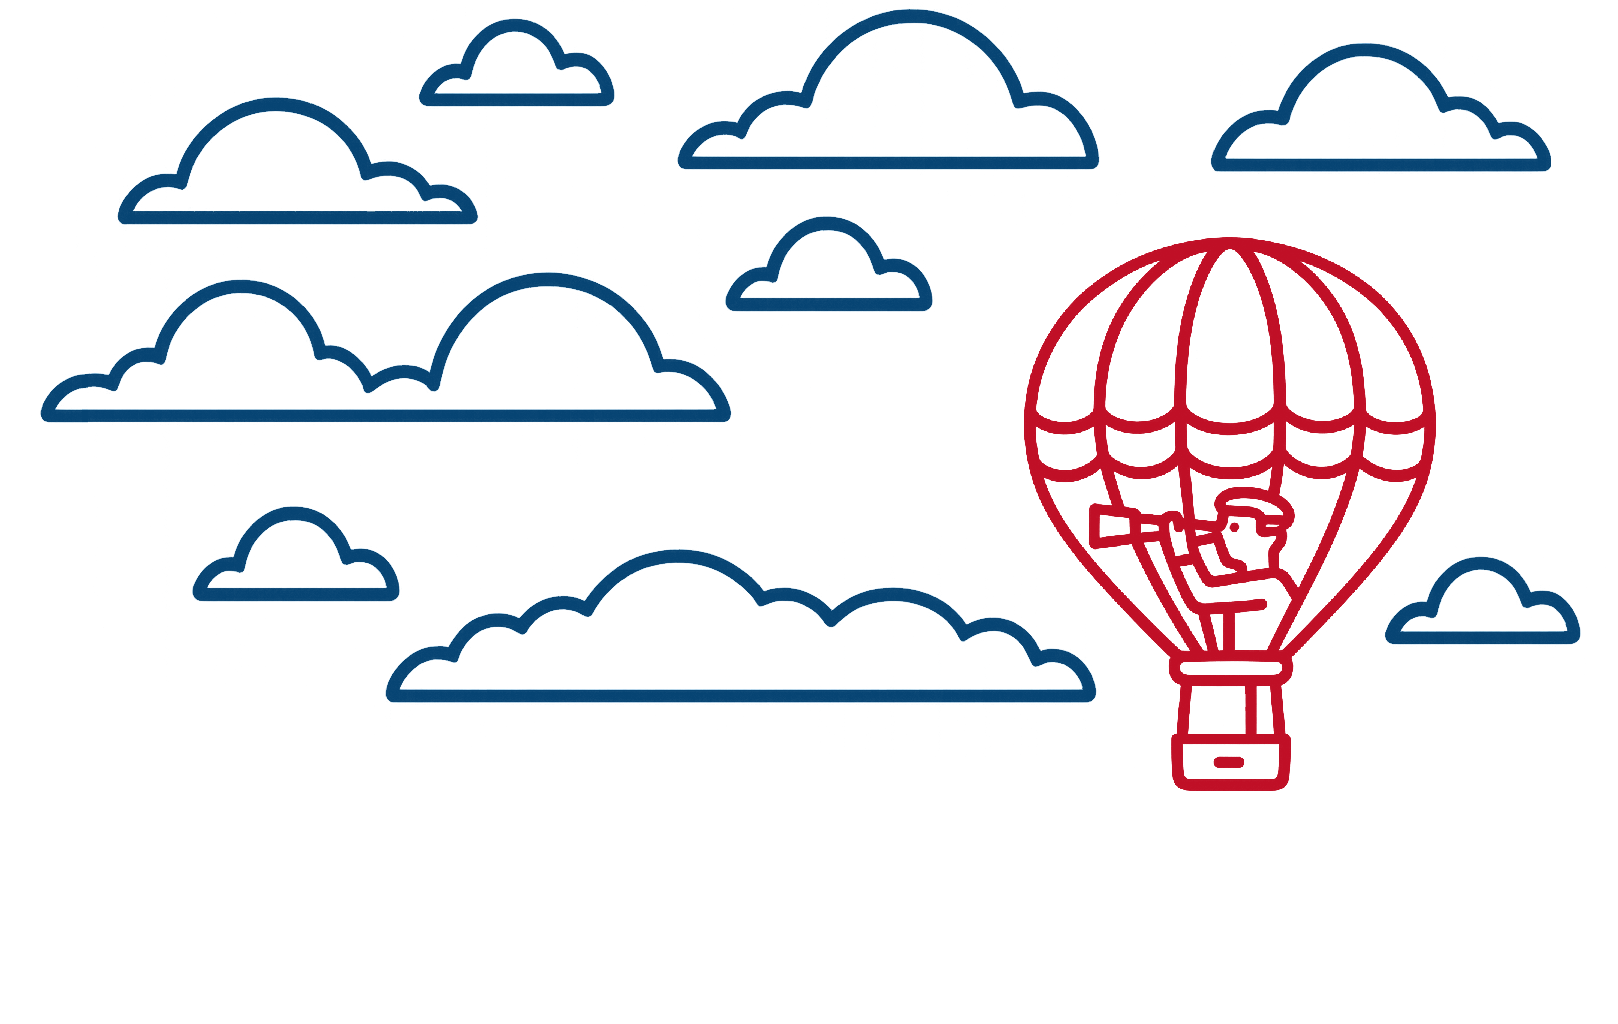
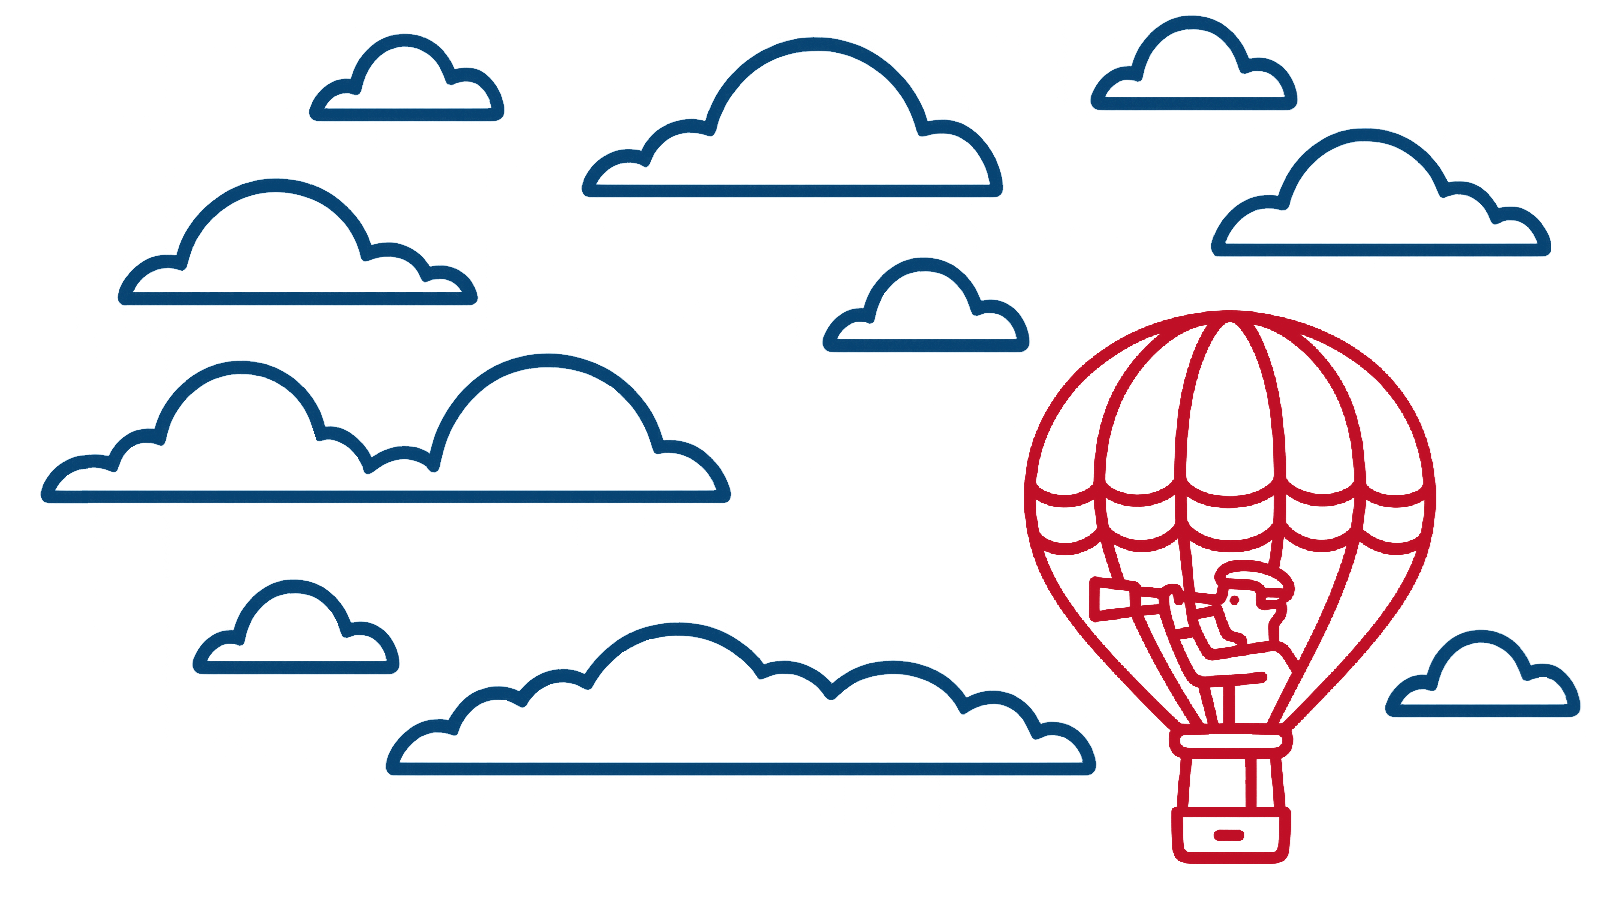
Adding responsive part 3

Changed region(s): [[0.0, 0.0, 0.9889, 0.9466], [0.4017, 0.3359, 0.4326, 0.3664]]

diff --git a/src/index.html b/src/index.html
@@ -98,17 +98,18 @@
 
     <div class="relative z-0 top-0 bg-white">
         <div class="grid">
-            <section class="relative h-[150vh] w-full overflow-hidden">
-                <div class="absolute top-0 left-0 w-full h-full z-0" data-parallax data-speed="0.8">
+            <section class="relative h-[60vh] sm:h-[120vh] w-full overflow-hidden">
+                <div class="absolute top-0 left-0 w-full h-full z-0" data-parallax data-speed="0.7">
                     <h1>Un ciel bleu pour Poitiers</h1>
                 </div>
 
                 <div class="absolute top-65 left-0 w-full h-full z-5" data-parallax data-speed="0.1">
-                    <img src="assets/background_nuages.png" class="w-full" />
+                    <img src="assets/background_nuages.png" alt="Nuages" class="w-full" />
                 </div>
 
-                <div class="absolute top-20 left-0 w-full h-full z-10" data-parallax data-speed="0.6">
-                    <img src="assets/background_mairie.png" class="w-full" />
+                <div class="absolute top-50 sm:top-20 left-0 w-full h-full z-10" data-parallax data-speed="0.6">
+                    <img src="assets/background_mairie.png" alt="Mairie" class="w-full" />
+                    <div class="bg-white h-full"></div>
                 </div>
             </section>
 
@@ -272,7 +273,7 @@
                     <br>
                     <br>
                 </p>
-                <div class="max-w-84 sm:max-w-full">
+                <div class="max-w-82 sm:max-w-full">
                     <p class="truncate">
                         <a href="https://www.service-public.gouv.fr/particuliers/vosdroits/R16396"
                             target="_blank">https://www.service-public.gouv.fr/particuliers/vosdroits/R16396</a>

diff --git a/src/js/arc.js b/src/js/arc.js
@@ -1,5 +1,10 @@
 document.addEventListener("DOMContentLoaded", () => {
-    const imageRadius = 100;
+    var imageRadius = 100;
+
+    if (window.innerWidth <= 640) {
+        imageRadius = 75;
+    };
+
     const padding1 = 5;
     const padding2 = 5;
     const borderWidth1 = 5;
@@ -13,7 +18,7 @@ document.addEventListener("DOMContentLoaded", () => {
             this.canvas = wrapper.querySelector('canvas');
             this.ctx = this.canvas.getContext('2d');
             this.img = wrapper.querySelector('img');
-            this.radius = parseInt(wrapper.dataset.radius || 100);
+            this.radius = imageRadius;
 
             // Compute total size
             this.maxRadius = this.radius + padding1 + borderWidth1 + padding2 + borderWidth2;

diff --git a/src/input.css b/src/input.css
@@ -39,7 +39,7 @@
     }
 
     h1 {
-        @apply text-8xl text-center
+        @apply text-6xl sm:text-8xl text-left sm:text-center
     }
 
     h2 {
@@ -57,11 +57,11 @@
     }
 
     .grid {
-        @apply mx-auto max-w-5xl md:w-12/12 lg:w-10/12 p-6
+        @apply mx-auto max-w-5xl md:w-12/12 lg:w-10/12 p-4
     }
 
     .profile {
-        @apply w-80 mt-9 mx-auto
+        @apply w-80 mt-6 sm:mt-9 mx-auto
     }
 
     .profile-picture {
@@ -77,7 +77,7 @@
     }
 
     .profile-text {
-        @apply mt-3 text-center
+        @apply mt-2 sm:mt-3 text-center
     }
 
     .programme {
